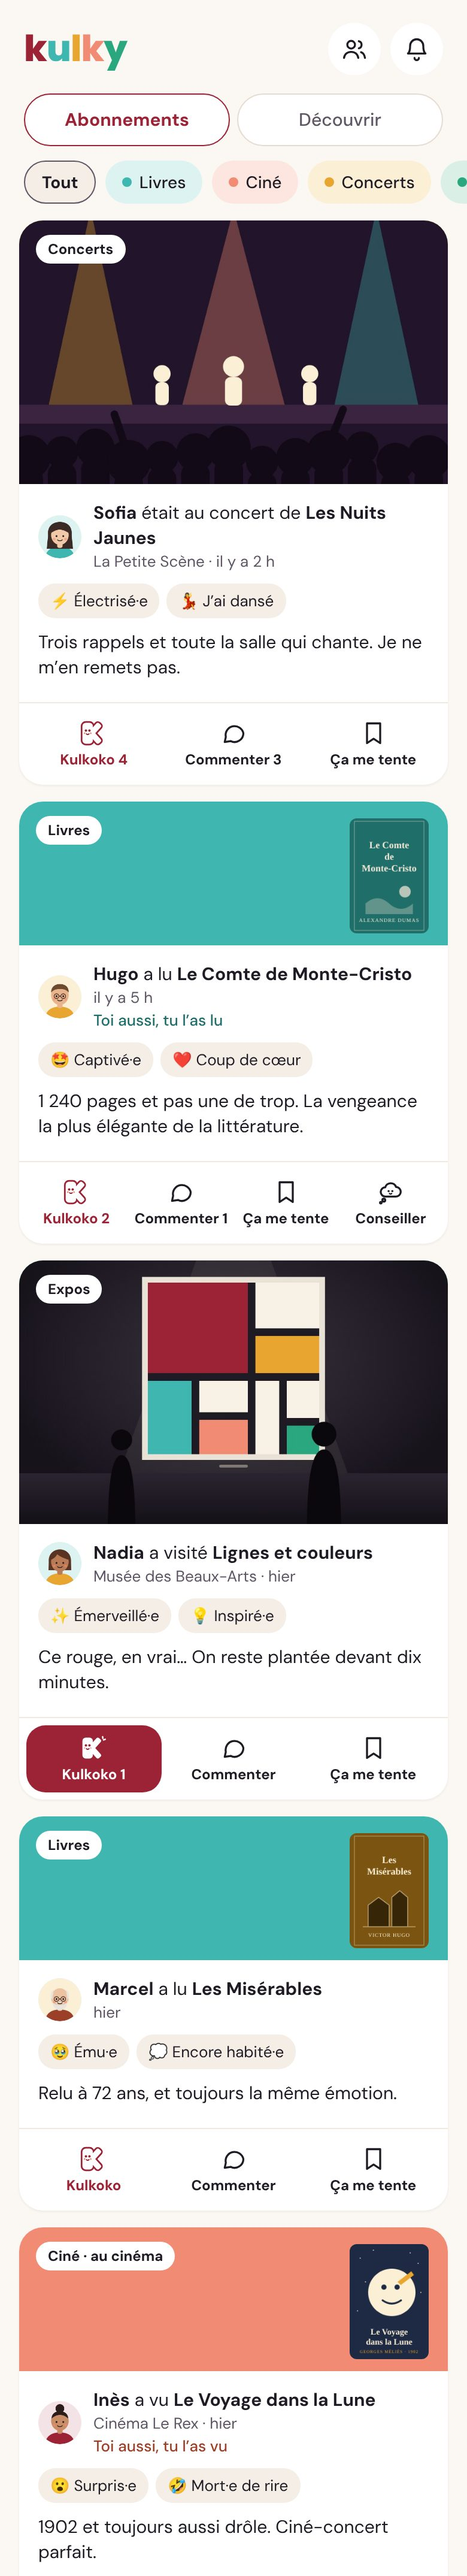
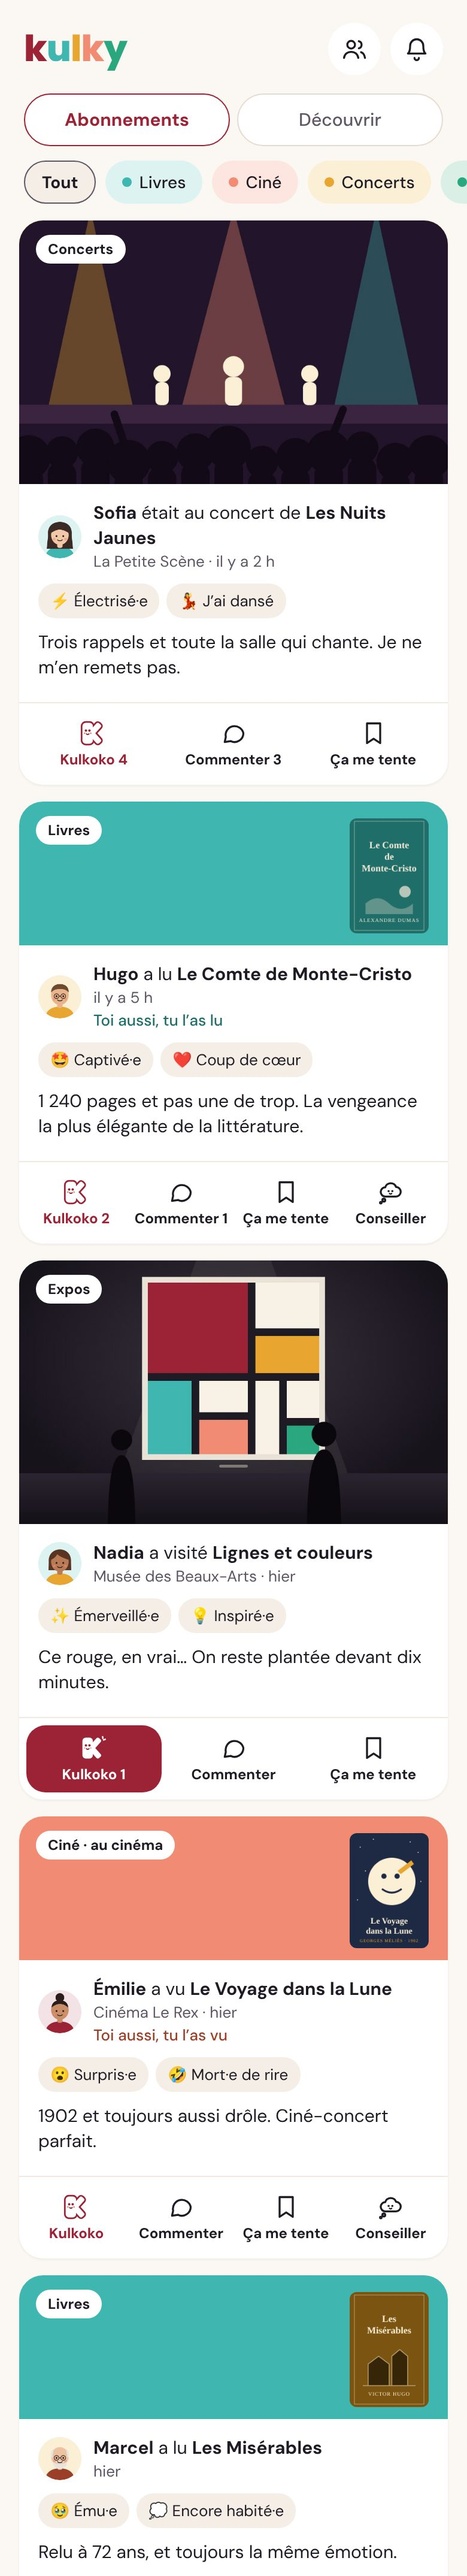
Site v4 : récit fluide en 8 étapes, textes revus, mot de la fondatrice
Claude-Session: https://claude.ai/code/session_01Wusw4yQXqijhUfB2C8zxN9

Changed region(s): [[0.0308, 0.6856, 0.9846, 0.9972]]

diff --git a/site/index.html b/site/index.html
@@ -56,10 +56,10 @@ p { margin: 0; }
 .demo .tete p { color: var(--gris); }
 .scene { display: grid; grid-template-columns: minmax(0, 1fr) auto; gap: 72px; align-items: center; max-width: 960px; margin: 0 auto; padding-right: 150px; }
 .etapes { display: grid; gap: 6px; list-style: none; margin: 0; padding: 0; min-width: 0; }
-.etape { display: grid; grid-template-columns: 40px 1fr; gap: 14px; align-items: start; width: 100%; text-align: left; padding: 12px 16px; border-radius: 20px; border: 2px solid transparent; background: transparent; font: inherit; color: inherit; cursor: pointer; transition: background .25s, border-color .25s; }
+.etape { display: grid; grid-template-columns: 40px 1fr; gap: 14px; align-items: start; width: 100%; text-align: left; padding: 9px 16px; border-radius: 20px; border: 2px solid transparent; background: transparent; font: inherit; color: inherit; cursor: pointer; transition: background .25s, border-color .25s; }
 .etape .rond { width: 40px; height: 40px; border-radius: 50%; display: grid; place-items: center; font-family: var(--titre); font-weight: 800; background: var(--fond-c); color: var(--fonce); transition: background .25s, color .25s; }
 .etape .h { display: block; font-family: var(--titre); font-weight: 600; font-size: 18px; line-height: 1.2; color: var(--encre); }
-.etape .t { display: block; font-size: 15px; color: var(--gris); margin-top: 2px; }
+.etape .t { display: block; font-size: 14.5px; color: var(--gris); margin-top: 2px; }
 .etape[aria-current="step"] { background: var(--fond-c); border-color: var(--couleur); }
 .etape[aria-current="step"] .rond { background: var(--couleur); color: #fff; }
 .etape .barre { grid-column: 2; height: 4px; border-radius: 2px; background: rgba(31,27,36,.08); overflow: hidden; margin-top: 8px; display: none; }
@@ -103,6 +103,8 @@ p { margin: 0; }
 .atout .ic { width: 40px; height: 40px; border-radius: 13px; display: grid; place-items: center; background: var(--ic, var(--beige)); font-size: 20px; }
 .atout b { font-family: var(--titre); font-weight: 600; font-size: 17px; line-height: 1.25; }
 .atout span { color: var(--gris); font-size: 15px; line-height: 1.45; }
+.atout.large2 { grid-column: 1 / -1; }
+.atout .visuel.grand-visuel { height: 200px; }
 .atout .visuel { height: 140px; border-radius: 16px; background: var(--vfond, var(--beige)); display: grid; place-items: center; overflow: hidden; position: relative; margin-bottom: 4px; }
 .univers-tuiles { display: grid; grid-template-columns: repeat(4, minmax(0, 1fr)); gap: 10px; }
 .ut { border-radius: 20px; padding: 16px 12px; background: var(--carte); display: grid; gap: 8px; justify-items: center; text-align: center; transition: transform .2s ease; }
@@ -179,7 +181,7 @@ p { margin: 0; }
 .trois span { color: var(--gris); font-size: 15.5px; }
 
 /* Sport et culture : un interrupteur */
-.compare { padding-block: 56px 24px; display: grid; justify-items: center; gap: 18px; text-align: center; }
+.compare { padding-block: 8px 64px; display: grid; justify-items: center; gap: 18px; text-align: center; }
 .compare .tete { display: grid; gap: 8px; max-width: 560px; }
 .compare .tete p { color: var(--gris); }
 .inter { display: inline-flex; flex-wrap: wrap; justify-content: center; background: var(--carte); border-radius: 26px; padding: 4px; gap: 4px; border: 1.5px solid var(--bordure); }
@@ -203,6 +205,7 @@ p { margin: 0; }
 .carte-f .dire { background: var(--carte); border-radius: 28px 28px 28px 8px; padding: 24px 26px; box-shadow: 0 16px 40px -26px rgba(31,27,36,.4); display: grid; gap: 12px; }
 .carte-f .dire p { font-size: 18px; }
 .badges { display: flex; flex-wrap: wrap; gap: 8px; }
+.badges span.toulouse { display: inline-flex; align-items: center; gap: 7px; padding-left: 4px; }
 .badges span { background: var(--turquoise-c); color: var(--turquoise-f); font-weight: 700; font-size: 14px; padding: 6px 13px; border-radius: 16px; }
 
 /* Fin */
@@ -220,7 +223,7 @@ p { margin: 0; }
   .scene { grid-template-columns: 1fr; gap: 18px; padding-right: 0; }
   .plateau { justify-self: center; order: -1; width: 230px; }
   .sortie { display: none; }
-  .etapes { grid-template-columns: repeat(7, minmax(0, 1fr)); gap: 6px; order: -2; }
+  .etapes { grid-template-columns: repeat(8, minmax(0, 1fr)); gap: 6px; order: -2; }
   .etape { grid-template-columns: 1fr; justify-items: center; padding: 4px; border: 0; }
   .etape > span:not(.rond) { display: none; }
   .etape[aria-current="step"] { background: transparent; }
@@ -259,7 +262,7 @@ p { margin: 0; }
   <section class="ouverture large">
     <div>
       <h1>Ta culture, <em>avec tes amis.</em></h1>
-      <p class="devise">Vis-le, enregistre-le, partage-le. Kulky garde la trace de ce que tu lis, vois et écoutes, et le fait voyager jusqu’à ceux que tu aimes.</p>
+      <p class="devise">Vis-le, enregistre-le, partage-le. Kulky garde la trace de ce que tu lis, vois et écoutes, et le fait voyager jusqu’à tes amis.</p>
       <div class="pastilles"><span style="--pt: var(--turquoise); --ptc: var(--turquoise-c); --ptf: var(--turquoise-f)">Livres</span><span style="--pt: var(--corail); --ptc: var(--corail-c); --ptf: var(--corail-f)">Ciné</span><span style="--pt: var(--ambre); --ptc: var(--ambre-c); --ptf: var(--ambre-f)">Concerts</span><span style="--pt: var(--vert); --ptc: var(--vert-c); --ptf: var(--vert-f)">Expos</span></div>
       <div class="actions">
         <a class="bouton" href="https://culky.vercel.app/bienvenue">Créer mon Kulky</a>
@@ -268,6 +271,22 @@ p { margin: 0; }
     </div>
     <div class="maille" aria-hidden="true"><svg id="maille" viewBox="0 0 320 220"></svg></div>
   </section>
+  <section class="compare large" id="compare" aria-labelledby="titre-compare">
+    <div class="tete">
+      <h2 id="titre-compare">Comme pour le sport, mais pour la culture</h2>
+      <p>Les sportifs ont leurs applis pour partager leurs sorties et s’encourager. La culture méritait la sienne.</p>
+    </div>
+    <div class="inter" role="group" aria-label="Comparer">
+      <button type="button" id="b-sport" aria-pressed="true">Dans une appli de sport</button>
+      <button type="button" id="b-culture" aria-pressed="false">Sur Kulky</button>
+    </div>
+    <div class="paires">
+      <div class="paire" style="--d: 0s; --fc: var(--turquoise-c); --ff: var(--turquoise-f)"><div class="face"><div class="sport"><i>🏃</i><b>Une course</b></div><div class="culture"><i>📖</i><b>Un livre, un film, un concert</b></div></div></div>
+      <div class="paire" style="--d: .08s; --fc: var(--bordeaux-c); --ff: var(--bordeaux)"><div class="face"><div class="sport"><i>👍</i><b>Des encouragements</b></div><div class="culture"><i>👏</i><b>Le Kulkoko</b></div></div></div>
+      <div class="paire" style="--d: .16s; --fc: var(--vert-c); --ff: var(--vert-f)"><div class="face"><div class="sport"><i>📈</i><b>Tes kilomètres de l’année</b></div><div class="culture"><i>✨</i><b>Ton année culturelle</b></div></div></div>
+      <div class="paire" style="--d: .24s; --fc: var(--ambre-c); --ff: var(--ambre-f)"><div class="face"><div class="sport"><i>🗺</i><b>Un parcours partagé</b></div><div class="culture"><i>💭</i><b>Un conseil qui voyage</b></div></div></div>
+    </div>
+  </section>
 </div>
 
 <section class="demo page" id="comment" aria-labelledby="titre-demo">
@@ -275,7 +294,7 @@ p { margin: 0; }
     <div class="tete">
       <span class="bande5" aria-hidden="true"><i></i><i></i><i></i><i></i><i></i></span>
       <h2 id="titre-demo">Comment ça marche</h2>
-      <p>L’histoire de Léa et d’un livre que son amie Sofia lui a conseillé.</p>
+      <p>Une histoire de Léa, d’un livre et de ses amis.</p>
     </div>
     <div class="scene">
       <ol class="etapes" id="etapes"></ol>
@@ -293,7 +312,7 @@ p { margin: 0; }
     <div class="intro">
       <span class="chapeau" style="--c: var(--bordeaux)">Notre devise</span>
       <h2 id="titre-temps">Vis-le, enregistre-le, partage-le.</h2>
-      <p>Trois gestes simples, et tout ce que Kulky en fait pour toi.</p>
+      <p>Ce que tu vis, tu le gardes, et tu le partages. À chaque étape, voici ce que Kulky t’apporte.</p>
     </div>
 
     <article class="pilier" style="--fond: var(--turquoise-c); --fonce: var(--turquoise-f)">
@@ -312,7 +331,7 @@ p { margin: 0; }
     <article class="pilier" style="--fond: var(--ambre-c); --fonce: var(--ambre-f)">
       <div class="gauche">
         <div class="grand"><small>2. J’enregistre</small>Enregistre-le.</div>
-        <p>En trente secondes, et sans note sur 5. Pour ne plus jamais oublier ce que tu as aimé, et ce que ça t’a fait vivre.</p>
+        <p>En trente secondes. Pour ne plus jamais oublier ce que tu as aimé, et ce que ça t’a fait vivre.</p>
       </div>
       <div class="atouts">
         <div class="atout" style="--vfond: var(--beige)">
@@ -325,10 +344,10 @@ p { margin: 0; }
         </div>
         <div class="atout" style="--vfond: var(--ambre-c)">
           <div class="visuel"><div class="lecture-visuel"><div class="mots"><div class="mot-ami a"><img src="img/sofia.png" alt="">« La scène de l’évêque… »</div><div class="mot-ami b"><img src="img/marcel.png" alt="">« Attends les égouts ! »</div></div><div class="regle"><i></i></div><div class="pages"><span>p. 1</span><span>p. 120</span><span>p. 480</span><span>fin</span></div></div></div>
-          <b>Où j’en suis, sans spoiler</b><span>Avance dans ton livre et découvre les mots de tes amis à la bonne page.</span>
+          <b>Un mot glissé entre les pages</b><span>Tes amis laissent un petit mot à une page précise du livre. Tu le découvres en y arrivant, jamais avant.</span>
         </div>
         <div class="atout">
-          <span class="ic" aria-hidden="true" style="--ic: var(--corail-c)">✨</span><b>27 émotions plutôt que des étoiles</b><span>Coup de cœur, émerveillé·e, mort·e de rire, encore habité·e… On dit ce qu’on a ressenti, pas une note.</span>
+          <span class="ic" aria-hidden="true" style="--ic: var(--corail-c)">✨</span><b>Tes émotions plutôt que des notes</b><span>On n’est pas là pour noter, mais pour vibrer : coup de cœur, émerveillé·e, mort·e de rire, encore habité·e…</span>
           <span class="ic" aria-hidden="true" style="--ic: var(--vert-c); margin-top: 6px">📸</span><b>Ta photo souvenir</b><span>Ajoute ta photo du concert ou de l’expo à ta carte.</span>
         </div>
       </div>
@@ -337,22 +356,21 @@ p { margin: 0; }
     <article class="pilier" style="--fond: var(--corail-c); --fonce: var(--corail-f)">
       <div class="gauche">
         <div class="grand"><small>3. Je partage</small>Partage-le.</div>
-        <p>La culture, c’est meilleur à plusieurs. Avec Kulky, tu encourages, tu conseilles, tu organises, tu découvres.</p>
+        <p>La culture, c’est meilleur à plusieurs. Avec Kulky, tu conseilles, tu encourages, tu organises, tu découvres.</p>
       </div>
       <div class="atouts">
-        <div class="atout" style="--vfond: var(--bordeaux-c)">
-          <div class="visuel"><svg class="kclap" viewBox="0 0 24 24" aria-hidden="true"><g fill="#9B2335"><rect x="0" y="-2.6" width="11.4" height="5.2" rx="1.8" transform="translate(10.2 12) rotate(-48)"/><rect x="0" y="-2.6" width="11.4" height="5.2" rx="1.8" transform="translate(10.2 12) rotate(48)"/><rect x="2" y="2.5" width="9.5" height="19" rx="3"/></g><circle cx="5.2" cy="9.6" r="1.1" fill="#FBF7F2"/><circle cx="8.4" cy="9.6" r="1.1" fill="#FBF7F2"/><path d="M5.7 12.6c.6.7 1.6.7 2.2 0" stroke="#FBF7F2" stroke-width="1.1" fill="none" stroke-linecap="round"/><circle cx="4" cy="12" r=".8" fill="#F7B3C0"/><circle cx="9.6" cy="12" r=".8" fill="#F7B3C0"/><path class="clap" d="M20.4 1.6l.2 1.6M22.8 4l-1.6.6" stroke="#9B2335" stroke-width="1.3" stroke-linecap="round"/></svg></div>
-          <b>J’encourage</b><span>Un Kulkoko pour applaudir, un commentaire avec la case anti-spoiler.</span>
+        <div class="atout large2" style="--vfond: var(--turquoise-c)">
+          <div class="visuel grand-visuel"><svg viewBox="0 0 320 150" id="voyage" style="width:100%;height:100%"><path id="chemin" d="M36 94 C 80 30, 110 30, 125 82 S 180 136, 205 82 S 260 34, 288 82" fill="none" stroke="#BFE6E3" stroke-width="3" stroke-dasharray="5 7"/></svg></div>
+          <b>Je conseille, et le conseil voyage</b><span>Quand un livre me fait penser à Émilie, je le lui dis. Elle le range dans ses envies, lectures ou sorties. Puis elle le conseille à son tour, et je vois jusqu’où il est allé.</span>
         </div>
-        <div class="atout" style="--vfond: var(--turquoise-c)">
-          <div class="visuel"><svg viewBox="0 0 320 150" id="voyage" style="width:100%;height:100%"><path id="chemin" d="M36 94 C 80 30, 110 30, 125 82 S 180 136, 205 82 S 260 34, 288 82" fill="none" stroke="#BFE6E3" stroke-width="3" stroke-dasharray="5 7"/></svg></div>
-          <b>Je conseille</b><span>« Léa a pensé à toi », même à un ami qui n’a pas encore Kulky. Et ton conseil voyage de main en main.</span>
+        <div class="atout">
+          <span class="ic" aria-hidden="true" style="--ic: var(--bordeaux-c)">👏</span><b>J’encourage, et on m’encourage</b><span>J’applaudis mes amis d’un Kulkoko. Eux aussi m’en envoient quand je finis un livre : de quoi garder la motivation.</span>
         </div>
         <div class="atout" style="--vfond: var(--ambre-c)">
           <div class="visuel"><div class="sortie-demo"><b>On y va ensemble ?</b><span>Les Nuits Jaunes · samedi 21 h</span><div class="gens"><span style="--dd: 0s"><img src="img/sofia.png" alt="">Partante !</span><span style="--dd: .8s"><img src="img/malik.png" alt="">Partant !</span></div></div></div>
           <b>J’organise</b><span>« Ça me tente », puis « On y va ensemble ? » avec une date, et les rappels la veille.</span>
         </div>
-        <div class="atout" style="--vfond: var(--corail-c)">
+        <div class="atout large2" style="--vfond: var(--corail-c)">
           <div class="visuel"><div class="croise"><div class="mini g"><img src="img/hugo.png" alt=""><span><b>Hugo</b>a lu Monte-Cristo</span></div><div class="mini d"><img src="img/lea.png" alt=""><span><b>Léa</b>a lu Monte-Cristo</span></div><div class="toi-aussi">Toi aussi, tu l’as lu !</div></div></div>
           <b>Je découvre qui a vécu la même chose</b><span>Les croisés : Kulky te signale les amis qui ont lu, vu ou écouté la même chose que toi.</span>
         </div>
@@ -386,31 +404,15 @@ p { margin: 0; }
   <section class="esprit large" aria-labelledby="titre-esprit">
     <div class="tete">
       <span class="chapeau" style="--c: var(--turquoise-f)">L’esprit Kulky</span>
-      <h2 id="titre-esprit">Ce qu’on ne trouve que sur Kulky</h2>
+      <h2 id="titre-esprit">Ce qui nous tient à cœur</h2>
     </div>
     <div class="trois">
-      <div style="--c: var(--bordeaux)"><b>Célébrer, pas noter</b><span>Pas d’étoiles ni de note sur 5. On raconte ce que l’œuvre nous a fait vivre.</span></div>
-      <div style="--c: var(--turquoise-f)"><b>Des amis, pas un algorithme</b><span>Les conseils viennent des gens qui te connaissent, avec un petit mot.</span></div>
-      <div style="--c: var(--ambre-f)"><b>Zéro spoiler</b><span>Les mots de tes amis se débloquent à la bonne page. Les commentaires qui dévoilent la fin sont cachés.</span></div>
+      <div style="--c: var(--bordeaux)"><b>Vibrer, pas noter</b><span>Pas d’étoiles ni de note sur 5. On dit ce que l’œuvre nous a fait, et on s’en souvient.</span></div>
+      <div style="--c: var(--turquoise-f)"><b>Des amis, pas un algorithme</b><span>Les idées viennent des gens qui te connaissent, pas d’une machine qui veut te garder le plus longtemps possible.</span></div>
+      <div style="--c: var(--ambre-f)"><b>Pas de compétition</b><span>Pas de classement ni de course aux chiffres. Chaque lecture, chaque sortie se fête, à ton rythme.</span></div>
     </div>
   </section>
 
-  <section class="compare large" id="compare" aria-labelledby="titre-compare">
-    <div class="tete">
-      <h2 id="titre-compare">Comme pour le sport, mais pour la culture</h2>
-      <p>Les sportifs ont leurs applis pour partager leurs sorties et s’encourager. La culture méritait la sienne.</p>
-    </div>
-    <div class="inter" role="group" aria-label="Comparer">
-      <button type="button" id="b-sport" aria-pressed="true">Dans une appli de sport</button>
-      <button type="button" id="b-culture" aria-pressed="false">Sur Kulky</button>
-    </div>
-    <div class="paires">
-      <div class="paire" style="--d: 0s; --fc: var(--turquoise-c); --ff: var(--turquoise-f)"><div class="face"><div class="sport"><i>🏃</i><b>Une course</b></div><div class="culture"><i>📖</i><b>Un livre, un film, un concert</b></div></div></div>
-      <div class="paire" style="--d: .08s; --fc: var(--bordeaux-c); --ff: var(--bordeaux)"><div class="face"><div class="sport"><i>👍</i><b>Des encouragements</b></div><div class="culture"><i>👏</i><b>Le Kulkoko</b></div></div></div>
-      <div class="paire" style="--d: .16s; --fc: var(--vert-c); --ff: var(--vert-f)"><div class="face"><div class="sport"><i>📈</i><b>Tes kilomètres de l’année</b></div><div class="culture"><i>✨</i><b>Ton année culturelle</b></div></div></div>
-      <div class="paire" style="--d: .24s; --fc: var(--ambre-c); --ff: var(--ambre-f)"><div class="face"><div class="sport"><i>🗺</i><b>Un parcours partagé</b></div><div class="culture"><i>💭</i><b>Un conseil qui voyage</b></div></div></div>
-    </div>
-  </section>
 
   <section class="fondatrice large" aria-labelledby="titre-fondatrice">
     <h2 id="titre-fondatrice" class="cache">La fondatrice</h2>
@@ -418,8 +420,9 @@ p { margin: 0; }
       <div class="avatar" aria-hidden="true"><svg viewBox="0 0 24 24" width="44" height="44"><g fill="#1F6E6A"><rect x="0" y="-2.6" width="11.4" height="5.2" rx="1.8" transform="translate(10.2 12) rotate(-48)"/><rect x="0" y="-2.6" width="11.4" height="5.2" rx="1.8" transform="translate(10.2 12) rotate(48)"/><rect x="2" y="2.5" width="9.5" height="19" rx="3"/></g><circle cx="5.2" cy="9.6" r="1.1" fill="#DDF3F1"/><circle cx="8.4" cy="9.6" r="1.1" fill="#DDF3F1"/><path d="M5.7 12.6c.6.7 1.6.7 2.2 0" stroke="#DDF3F1" stroke-width="1.1" fill="none" stroke-linecap="round"/></svg></div>
       <div class="dire">
         <span class="chapeau" style="--c: var(--turquoise-f)">C’est moi, la fondatrice</span>
-        <p>Je suis mes sorties sportives sur mon téléphone depuis des années. Un jour, je me suis dit : pourquoi pas ma culture ? Les livres qui m’ont marquée, les concerts avec mes amis, les expos du dimanche… Alors j’ai appris à coder, et j’ai créé Kulky.</p>
-        <div class="badges"><span>Développé à Toulouse</span><span>Autodidacte</span><span>Entrepreneuriat au féminin</span></div>
+        <p>Comme beaucoup, je suis mes sorties sportives et celles de mes amis sur une appli de sport. Sauf que le sport, ce n’est pas là que je performe. Moi, mon truc, c’est plutôt la lecture.</p>
+        <p>Alors pourquoi ne pas recevoir des applaudissements pour ça aussi ? Et tenir enfin le journal de mes lectures et de mes sorties : j’avais oublié tout ce que j’avais vécu. Ça se célèbre !</p>
+        <div class="badges"><span class="toulouse"><svg viewBox="0 0 40 40" width="26" height="26" aria-hidden="true"><circle cx="20" cy="20" r="20" fill="#FDE6E0"/><path d="M6 31 q3.5 -2.5 7 0 t7 0 t7 0 t7 0" stroke="#3FB6B0" stroke-width="2.2" fill="none" stroke-linecap="round"/><g fill="#F28B73"><rect x="12" y="20" width="16" height="8" rx="1"/><rect x="14" y="14" width="12" height="7" rx="1"/><rect x="16" y="9" width="8" height="6" rx="1"/></g><path d="M20 3 L23 9 H17 Z" fill="#9B2335"/><g fill="#FDE6E0"><rect x="15" y="23" width="2" height="3" rx="1"/><rect x="19" y="23" width="2" height="3" rx="1"/><rect x="23" y="23" width="2" height="3" rx="1"/><rect x="17" y="16.5" width="2" height="3" rx="1"/><rect x="21" y="16.5" width="2" height="3" rx="1"/><rect x="19" y="11" width="2" height="2.6" rx="1"/></g></svg>Développé à Toulouse</span><span>Entrepreneuriat au féminin</span></div>
       </div>
     </div>
   </section>
@@ -478,20 +481,22 @@ const el = (tag, attrs, parent) => { const e = document.createElementNS(NS, tag)
 //    avec des images qui sortent de l'écran à chaque étape.
 const K_BLANC = '<svg viewBox="0 0 24 24" width="22" height="22"><g fill="#fff"><rect x="0" y="-2.6" width="11.4" height="5.2" rx="1.8" transform="translate(10.2 12) rotate(-48)"/><rect x="0" y="-2.6" width="11.4" height="5.2" rx="1.8" transform="translate(10.2 12) rotate(48)"/><rect x="2" y="2.5" width="9.5" height="19" rx="3"/></g></svg>';
 const etapes = [
-  { titre: 'Sofia pense à Léa', texte: 'Elle lui conseille Les Misérables, avec un petit mot. Il arrive dans « Pour moi ».', img: 'ecrans/6-pour-moi.jpg', c: ['#9B2335', '#F4E3E6', '#9B2335'],
+  { titre: 'Léa s’inspire', texte: 'Elle parcourt le fil : Sofia était au concert des Nuits Jaunes, Nadia a vu une expo, Marcel relit Les Misérables…', img: 'ecrans/1-fil-long.jpg', long: true, c: ['#E8A631', '#FBEFD6', '#7A5410'],
+    sorties: [{ html: '<div class="puce"><img src="img/nadia.png" alt="">Nadia a visité une expo</div>', x: 255, y: 120, r: '3deg', d: '1.2s' }, { html: '<div class="puce"><img src="img/marcel.png" alt="">Marcel relit Les Misérables</div>', x: 262, y: 330, r: '-3deg', d: '3s' }] },
+  { titre: 'Sofia pense à elle', texte: 'Le lendemain, Sofia lui conseille Les Misérables, avec un petit mot. Il arrive dans « Pour moi ».', img: 'ecrans/6-pour-moi.jpg', c: ['#9B2335', '#F4E3E6', '#9B2335'],
     sorties: [{ html: '<div class="puce"><img src="img/sofia.png" alt="">Sofia a pensé à toi</div>', x: 250, y: 70, r: '-4deg' }, { html: '<div class="puce" style="width:200px;white-space:normal">« Tu vas adorer Fantine et Jean Valjean ! »</div>', x: 262, y: 175, r: '3deg', d: '.45s' }] },
-  { titre: 'Vis-le', texte: 'Léa le lit, puis le cherche en deux lettres. Kulky retrouve le livre et sa couverture.', img: 'ecrans/2-recherche.jpg', c: ['#3FB6B0', '#DDF3F1', '#1F6E6A'],
+  { titre: 'Elle le lit', texte: 'Trois semaines plus tard, c’est fini. Deux lettres suffisent pour le retrouver.', img: 'ecrans/2-recherche.jpg', c: ['#3FB6B0', '#DDF3F1', '#1F6E6A'],
     sorties: [{ html: '<img class="couv" src="img/miserables.png" alt="">', x: 262, y: 70, r: '8deg' }] },
-  { titre: 'Enregistre-le', texte: 'Pas d’étoiles : jusqu’à trois émotions, et quelques mots. Trente secondes.', img: 'ecrans/3-emotions.jpg', c: ['#2BA77F', '#DAF0E6', '#1D6E54'],
+  { titre: 'Elle dit ce qu’elle a ressenti', texte: 'Pas de note : des émotions, et quelques mots si elle veut.', img: 'ecrans/3-emotions.jpg', c: ['#2BA77F', '#DAF0E6', '#1D6E54'],
     sorties: [{ html: '<div class="puce pleine">❤ Coup de cœur</div>', x: 262, y: 250, r: '5deg' }, { html: '<div class="puce pleine">✨ Émerveillé·e</div>', x: 272, y: 305, r: '-3deg', d: '.35s' }] },
-  { titre: 'On fête ça', texte: 'Son 14e livre de l’année, grâce à Sofia. Et Hugo et Jules l’ont lu aussi.', img: 'ecrans/4-fete.jpg', c: ['#F28B73', '#FDE6E0', '#9C3F28'], confettis: true,
+  { titre: 'Kulky fête ça', texte: 'C’est son 14e livre de l’année, grâce à Sofia. Et Hugo et Jules l’ont lu aussi.', img: 'ecrans/4-fete.jpg', c: ['#F28B73', '#FDE6E0', '#9C3F28'], confettis: true,
     sorties: [{ html: '<div class="puce" style="color:#9C3F28">14e livre de l’année 🎉</div>', x: 250, y: 100, r: '4deg' }, { html: '<div class="puce"><img src="img/hugo.png" alt=""><img src="img/jules.png" alt="" style="margin-left:-16px">L’ont lu aussi</div>', x: 262, y: 400, r: '-3deg', d: '.45s' }] },
-  { titre: 'Partage-le', texte: 'Une jolie carte pour sa story Instagram, prête en un toucher.', img: 'ecrans/5-story.jpg', story: true, c: ['#E8A631', '#FBEFD6', '#7A5410'],
+  { titre: 'Elle le partage', texte: 'Une jolie carte pour sa story Instagram, prête en un toucher.', img: 'ecrans/5-story.jpg', story: true, c: ['#E8A631', '#FBEFD6', '#7A5410'],
     sorties: [{ html: '<img class="storycard" src="ecrans/5-story.jpg" alt="">', x: 255, y: 110, r: '6deg' }] },
-  { titre: 'Sa bande réagit', texte: 'Le fil de ses amis : un Kulkoko pour applaudir, un commentaire, « Ça me tente ».', img: 'ecrans/1-fil-long.jpg', long: true, c: ['#9B2335', '#F4E3E6', '#9B2335'],
-    sorties: [{ html: '<div class="puce pleine">' + K_BLANC + '+1 Kulkoko</div>', x: 262, y: 240, r: '-4deg' }, { html: '<div class="puce"><img src="img/nadia.png" alt="">Nadia a visité une expo</div>', x: 255, y: 400, r: '3deg', d: '1.6s' }] },
-  { titre: 'Et le conseil voyage', texte: 'Léa le conseille à son tour à Jules et Inès. Sofia verra jusqu’où il est allé.', img: 'ecrans/7-conseiller.jpg', c: ['#3FB6B0', '#DDF3F1', '#1F6E6A'],
-    sorties: [{ html: '<div class="puce"><img src="img/jules.png" alt="">Léa a pensé à toi</div>', x: 262, y: 150, r: '4deg' }, { html: '<div class="puce"><img src="img/ines.png" alt="">Léa a pensé à toi</div>', x: 272, y: 215, r: '-3deg', d: '.45s' }] },
+  { titre: 'Ses amis l’applaudissent', texte: 'Sept Kulkokos et quatre commentaires. De quoi garder la motivation pour le prochain livre.', img: 'ecrans/8-recu.jpg', c: ['#9B2335', '#F4E3E6', '#9B2335'],
+    sorties: [{ html: '<div class="puce pleine">' + K_BLANC + 'Hugo t’envoie un Kulkoko</div>', x: 262, y: 300, r: '-4deg' }, { html: '<div class="puce"><img src="img/marcel.png" alt="">« Ah, Jean Valjean… »</div>', x: 272, y: 370, r: '3deg', d: '.6s' }] },
+  { titre: 'À son tour, elle pense à Émilie', texte: 'Elle lui conseille le livre. Émilie le range dans ses envies, et le conseil continue son voyage.', img: 'ecrans/7-conseiller.jpg', c: ['#3FB6B0', '#DDF3F1', '#1F6E6A'],
+    sorties: [{ html: '<div class="puce"><img src="img/ines.png" alt="">Léa a pensé à toi</div>', x: 262, y: 150, r: '4deg' }, { html: '<div class="puce" style="color:#7A5410">🔖 Ajouté à mes envies</div>', x: 272, y: 215, r: '-3deg', d: '.6s' }] },
 ];
 (function demo() {
   const DUREE = 5200;

diff --git a/site/demo_captures.py b/site/demo_captures.py
@@ -12,7 +12,7 @@ profils = {
   SOFIA: {'id': SOFIA, 'pseudo': 'Sofia', 'bio': 'Toujours un livre dans le sac.', 'photo_url': photo('sofia.png'), 'univers_choisis': ['livres', 'concerts'], 'inscription_terminee': True},
   HUGO:  {'id': HUGO, 'pseudo': 'Hugo', 'bio': None, 'photo_url': photo('hugo.png'), 'univers_choisis': ['livres'], 'inscription_terminee': True},
   MALIK: {'id': MALIK, 'pseudo': 'Malik', 'bio': None, 'photo_url': photo('malik.png'), 'univers_choisis': ['expos'], 'inscription_terminee': True},
-  INES:  {'id': INES, 'pseudo': 'Inès', 'bio': None, 'photo_url': photo('ines.png'), 'univers_choisis': ['cine'], 'inscription_terminee': True},
+  INES:  {'id': INES, 'pseudo': 'Émilie', 'bio': None, 'photo_url': photo('ines.png'), 'univers_choisis': ['cine'], 'inscription_terminee': True},
   JULES: {'id': JULES, 'pseudo': 'Jules', 'bio': None, 'photo_url': photo('jules.png'), 'univers_choisis': ['livres'], 'inscription_terminee': True},
   NADIA: {'id': NADIA, 'pseudo': 'Nadia', 'bio': None, 'photo_url': photo('nadia.png'), 'univers_choisis': ['expos'], 'inscription_terminee': True},
   MARCEL: {'id': MARCEL, 'pseudo': 'Marcel', 'bio': None, 'photo_url': photo('marcel.png'), 'univers_choisis': ['livres', 'concerts'], 'inscription_terminee': True},
@@ -63,7 +63,7 @@ def filtre(lignes, q, cles):
     return lignes
 
 def enrichir_activite(a):
-    return {**a, 'oeuvre': oeuvres[a['oeuvre_id']], 'lieu': lieux.get(a['lieu_id']), 'auteur': {'pseudo': profils[a['auteur_id']]['pseudo'], 'photo_url': profils[a['auteur_id']]['photo_url']}, 'nb': [{'count': {'a1': 3, 'a2': 1}.get(a['id'], 0)}]}
+    return {**a, 'oeuvre': oeuvres[a['oeuvre_id']], 'lieu': lieux.get(a['lieu_id']), 'auteur': {'pseudo': profils[a['auteur_id']]['pseudo'], 'photo_url': profils[a['auteur_id']]['photo_url']}, 'nb': [{'count': {'a1': 3, 'a2': 1, 'a20': 4}.get(a['id'], 0)}]}
 
 async def gerer(route):
     req = route.request; u = urlparse(req.url)
@@ -97,7 +97,7 @@ async def gerer(route):
     if table == 'activites':
         l = filtre(activites, q, ['id', 'auteur_id', 'oeuvre_id', 'etat', 'chouchou'])
         if v(q, 'visibilite'): l = [a for a in l if a['visibilite'] == 'public']
-        l = sorted(l, key=lambda a: a['date_activite'], reverse=True)
+        l = sorted(l, key=lambda a: (a['date_activite'], a['cree_le']), reverse=True)
         return await rep([enrichir_activite(a) for a in l])
     if table == 'culkoko': return await rep(filtre(culkoko, q, ['activite_id', 'profil_id']))
     if table == 'abonnements':
@@ -130,6 +130,11 @@ async def main():
         await aller('/'); await shot('1-fil')
         await pg.set_viewport_size({'width': 390, 'height': 2600}); await pg.wait_for_timeout(1500); await shot('1-fil-long'); await pg.set_viewport_size({'width': 390, 'height': 844})
         await pg.mouse.wheel(0, 520); await pg.wait_for_timeout(800); await shot('1b-fil')
+        # Léa a fini Les Misérables : ses amis l'applaudissent.
+        activites.append(act(20, MOI, 'o2', 0.5, ['coup-de-coeur', 'emerveille'], 'Jean Valjean m’accompagnera longtemps. Merci Sofia !'))
+        culkoko.extend({'activite_id': 'a20', 'profil_id': x} for x in (SOFIA, HUGO, MALIK, INES, JULES, NADIA, MARCEL))
+        await aller('/'); await shot('8-recu')
+        activites.pop()
         await aller('/enregistrer', 1200)
         await pg.get_by_text('Un livre').click(); await pg.wait_for_timeout(700)
         await pg.get_by_label('Titre ou auteur').fill('misérables'); await pg.wait_for_timeout(1500); await shot('2-recherche')
@@ -146,8 +151,8 @@ async def main():
             await pg.get_by_text('Partager en story').click()
         await (await d.value).save_as(f'{OUT}/5-story.png'); await pg.wait_for_timeout(600)
         await aller('/pour-toi'); await shot('6-pour-moi')
-        await aller('/penser?oeuvre=o1')
-        for n in ['Jules', 'Inès']: await pg.get_by_text(n, exact=True).first.click(); await pg.wait_for_timeout(250)
+        await aller('/penser?oeuvre=o2')
+        for n in ['Émilie']: await pg.get_by_text(n, exact=True).first.click(); await pg.wait_for_timeout(250)
         await pg.get_by_text('Tu vas adorer !').click(); await pg.wait_for_timeout(500); await shot('7-conseiller')
         await aller('/carnet'); await shot('8-profil')
         await aller('/amis'); await shot('9-amis')
